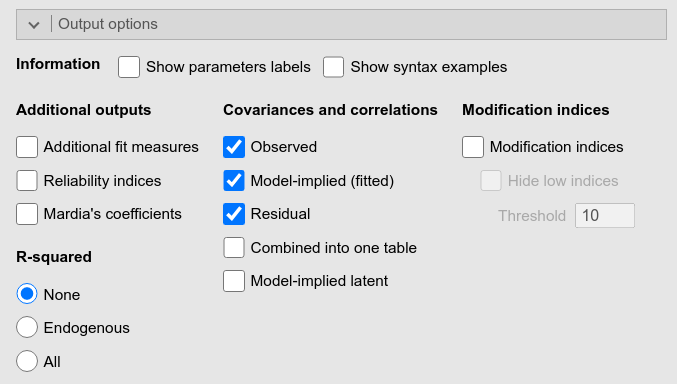
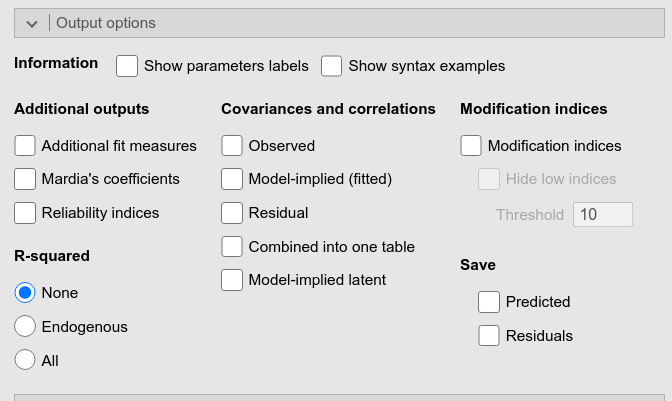
updates

diff --git a/docs/gui.html b/docs/gui.html
@@ -485,6 +485,7 @@ div.tocify {
 <h2>Output Options</h2>
 <p><img src=" pics/syntax/panel_output.png " class="img-responsive" alt=""></p>
 <p>This panel allows requesting all sort of additional information about the model results, such as the <span class="math inline">\(R^2\)</span>’s, the implied and residual variances and covariances, and the modification indexes.</p>
+<p>It is worth mentioning the option to save the predicted and residuals in the dataset. The <span class="option">Predicted</span> option saves, for each participant, the model based predicted values of the observed variables involved in the measurement of purely endogenous dependent variables. The predicted values computation is based on <span class="citation"><a href="#ref-predict" role="doc-biblioref">Rooij et al.</a> (<a href="#ref-predict" role="doc-biblioref">2022</a>)</span>, and the implementation is adpted from <a href="https://github.com/mjderooij/SEMpredict">github SEMpredict</a></p>
 </div>
 <div id="path-diagram" class="section level2">
 <h2>Path Diagram</h2>
@@ -529,6 +530,9 @@ Got comments, issues or spotted a bug? Please open an issue on <a href="https://
 <div id="refs" class="references csl-bib-body hanging-indent">
 <div id="ref-semplot" class="csl-entry">
 Epskamp, Sacha. 2015. <span>“semPlot: Unified Visualizations of Structural Equation Models.”</span> <em>Structural Equation Modeling: A Multidisciplinary Journal</em> 22 (3): 474–83.
+</div>
+<div id="ref-predict" class="csl-entry">
+Rooij, Mark de, Julian D. Karch, Marjolein Fokkema, Zsuzsa Bakk, Bunga Citra Pratiwi, and Henk Kelderman. 2022. <span>“SEM-Based Out-of-Sample Predictions.”</span> <em>Structural Equation Modeling: A Multidisciplinary Journal</em> 0 (0): 1–17. <a href="https://doi.org/10.1080/10705511.2022.2061494">https://doi.org/10.1080/10705511.2022.2061494</a>.
 </div>
 <div id="ref-lavaan" class="csl-entry">
 Rosseel, Yves. 2012. <span>“<span class="nocase">lavaan</span>: An <span>R</span> Package for Structural Equation Modeling.”</span> <em>Journal of Statistical Software</em> 48 (2): 1–36. <a href="https://www.jstatsoft.org/v48/i02/">https://www.jstatsoft.org/v48/i02/</a>.

diff --git a/docs/syntax.html b/docs/syntax.html
@@ -487,6 +487,7 @@ div.tocify {
 <h2>Output Options</h2>
 <p><img src=" pics/syntax/panel_output.png " class="img-responsive" alt=""></p>
 <p>This panel allows requesting all sort of additional information about the model results, such as the <span class="math inline">\(R^2\)</span>’s, the implied and residual variances and covariances, and the modification indexes.</p>
+<p>It is worth mentioning the option to save the predicted and residuals in the dataset. The <span class="option">Predicted</span> option saves, for each participant, the model based predicted values of the observed variables involved in the measurement of purely endogenous dependent variables. The predicted values computation is based on <span class="citation"><a href="#ref-predict" role="doc-biblioref">Rooij et al.</a> (<a href="#ref-predict" role="doc-biblioref">2022</a>)</span>, and the implementation is adpted from <a href="https://github.com/mjderooij/SEMpredict">github SEMpredict</a></p>
 </div>
 <div id="path-diagram" class="section level2">
 <h2>Path Diagram</h2>
@@ -531,6 +532,9 @@ Got comments, issues or spotted a bug? Please open an issue on <a href="https://
 <div id="refs" class="references csl-bib-body hanging-indent">
 <div id="ref-semplot" class="csl-entry">
 Epskamp, Sacha. 2015. <span>“semPlot: Unified Visualizations of Structural Equation Models.”</span> <em>Structural Equation Modeling: A Multidisciplinary Journal</em> 22 (3): 474–83.
+</div>
+<div id="ref-predict" class="csl-entry">
+Rooij, Mark de, Julian D. Karch, Marjolein Fokkema, Zsuzsa Bakk, Bunga Citra Pratiwi, and Henk Kelderman. 2022. <span>“SEM-Based Out-of-Sample Predictions.”</span> <em>Structural Equation Modeling: A Multidisciplinary Journal</em> 0 (0): 1–17. <a href="https://doi.org/10.1080/10705511.2022.2061494">https://doi.org/10.1080/10705511.2022.2061494</a>.
 </div>
 <div id="ref-lavaan" class="csl-entry">
 Rosseel, Yves. 2012. <span>“<span class="nocase">lavaan</span>: An <span>R</span> Package for Structural Equation Modeling.”</span> <em>Journal of Statistical Software</em> 48 (2): 1–36. <a href="https://www.jstatsoft.org/v48/i02/">https://www.jstatsoft.org/v48/i02/</a>.

diff --git a/gui.html b/gui.html
@@ -485,6 +485,7 @@ div.tocify {
 <h2>Output Options</h2>
 <p><img src=" pics/syntax/panel_output.png " class="img-responsive" alt=""></p>
 <p>This panel allows requesting all sort of additional information about the model results, such as the <span class="math inline">\(R^2\)</span>’s, the implied and residual variances and covariances, and the modification indexes.</p>
+<p>It is worth mentioning the option to save the predicted and residuals in the dataset. The <span class="option">Predicted</span> option saves, for each participant, the model based predicted values of the observed variables involved in the measurement of purely endogenous dependent variables. The predicted values computation is based on <span class="citation"><a href="#ref-predict" role="doc-biblioref">Rooij et al.</a> (<a href="#ref-predict" role="doc-biblioref">2022</a>)</span>, and the implementation is adpted from <a href="https://github.com/mjderooij/SEMpredict">github SEMpredict</a></p>
 </div>
 <div id="path-diagram" class="section level2">
 <h2>Path Diagram</h2>
@@ -529,6 +530,9 @@ Got comments, issues or spotted a bug? Please open an issue on <a href="https://
 <div id="refs" class="references csl-bib-body hanging-indent">
 <div id="ref-semplot" class="csl-entry">
 Epskamp, Sacha. 2015. <span>“semPlot: Unified Visualizations of Structural Equation Models.”</span> <em>Structural Equation Modeling: A Multidisciplinary Journal</em> 22 (3): 474–83.
+</div>
+<div id="ref-predict" class="csl-entry">
+Rooij, Mark de, Julian D. Karch, Marjolein Fokkema, Zsuzsa Bakk, Bunga Citra Pratiwi, and Henk Kelderman. 2022. <span>“SEM-Based Out-of-Sample Predictions.”</span> <em>Structural Equation Modeling: A Multidisciplinary Journal</em> 0 (0): 1–17. <a href="https://doi.org/10.1080/10705511.2022.2061494">https://doi.org/10.1080/10705511.2022.2061494</a>.
 </div>
 <div id="ref-lavaan" class="csl-entry">
 Rosseel, Yves. 2012. <span>“<span class="nocase">lavaan</span>: An <span>R</span> Package for Structural Equation Modeling.”</span> <em>Journal of Statistical Software</em> 48 (2): 1–36. <a href="https://www.jstatsoft.org/v48/i02/">https://www.jstatsoft.org/v48/i02/</a>.

diff --git a/syntax.html b/syntax.html
@@ -487,6 +487,7 @@ div.tocify {
 <h2>Output Options</h2>
 <p><img src=" pics/syntax/panel_output.png " class="img-responsive" alt=""></p>
 <p>This panel allows requesting all sort of additional information about the model results, such as the <span class="math inline">\(R^2\)</span>’s, the implied and residual variances and covariances, and the modification indexes.</p>
+<p>It is worth mentioning the option to save the predicted and residuals in the dataset. The <span class="option">Predicted</span> option saves, for each participant, the model based predicted values of the observed variables involved in the measurement of purely endogenous dependent variables. The predicted values computation is based on <span class="citation"><a href="#ref-predict" role="doc-biblioref">Rooij et al.</a> (<a href="#ref-predict" role="doc-biblioref">2022</a>)</span>, and the implementation is adpted from <a href="https://github.com/mjderooij/SEMpredict">github SEMpredict</a></p>
 </div>
 <div id="path-diagram" class="section level2">
 <h2>Path Diagram</h2>
@@ -531,6 +532,9 @@ Got comments, issues or spotted a bug? Please open an issue on <a href="https://
 <div id="refs" class="references csl-bib-body hanging-indent">
 <div id="ref-semplot" class="csl-entry">
 Epskamp, Sacha. 2015. <span>“semPlot: Unified Visualizations of Structural Equation Models.”</span> <em>Structural Equation Modeling: A Multidisciplinary Journal</em> 22 (3): 474–83.
+</div>
+<div id="ref-predict" class="csl-entry">
+Rooij, Mark de, Julian D. Karch, Marjolein Fokkema, Zsuzsa Bakk, Bunga Citra Pratiwi, and Henk Kelderman. 2022. <span>“SEM-Based Out-of-Sample Predictions.”</span> <em>Structural Equation Modeling: A Multidisciplinary Journal</em> 0 (0): 1–17. <a href="https://doi.org/10.1080/10705511.2022.2061494">https://doi.org/10.1080/10705511.2022.2061494</a>.
 </div>
 <div id="ref-lavaan" class="csl-entry">
 Rosseel, Yves. 2012. <span>“<span class="nocase">lavaan</span>: An <span>R</span> Package for Structural Equation Modeling.”</span> <em>Journal of Statistical Software</em> 48 (2): 1–36. <a href="https://www.jstatsoft.org/v48/i02/">https://www.jstatsoft.org/v48/i02/</a>.
